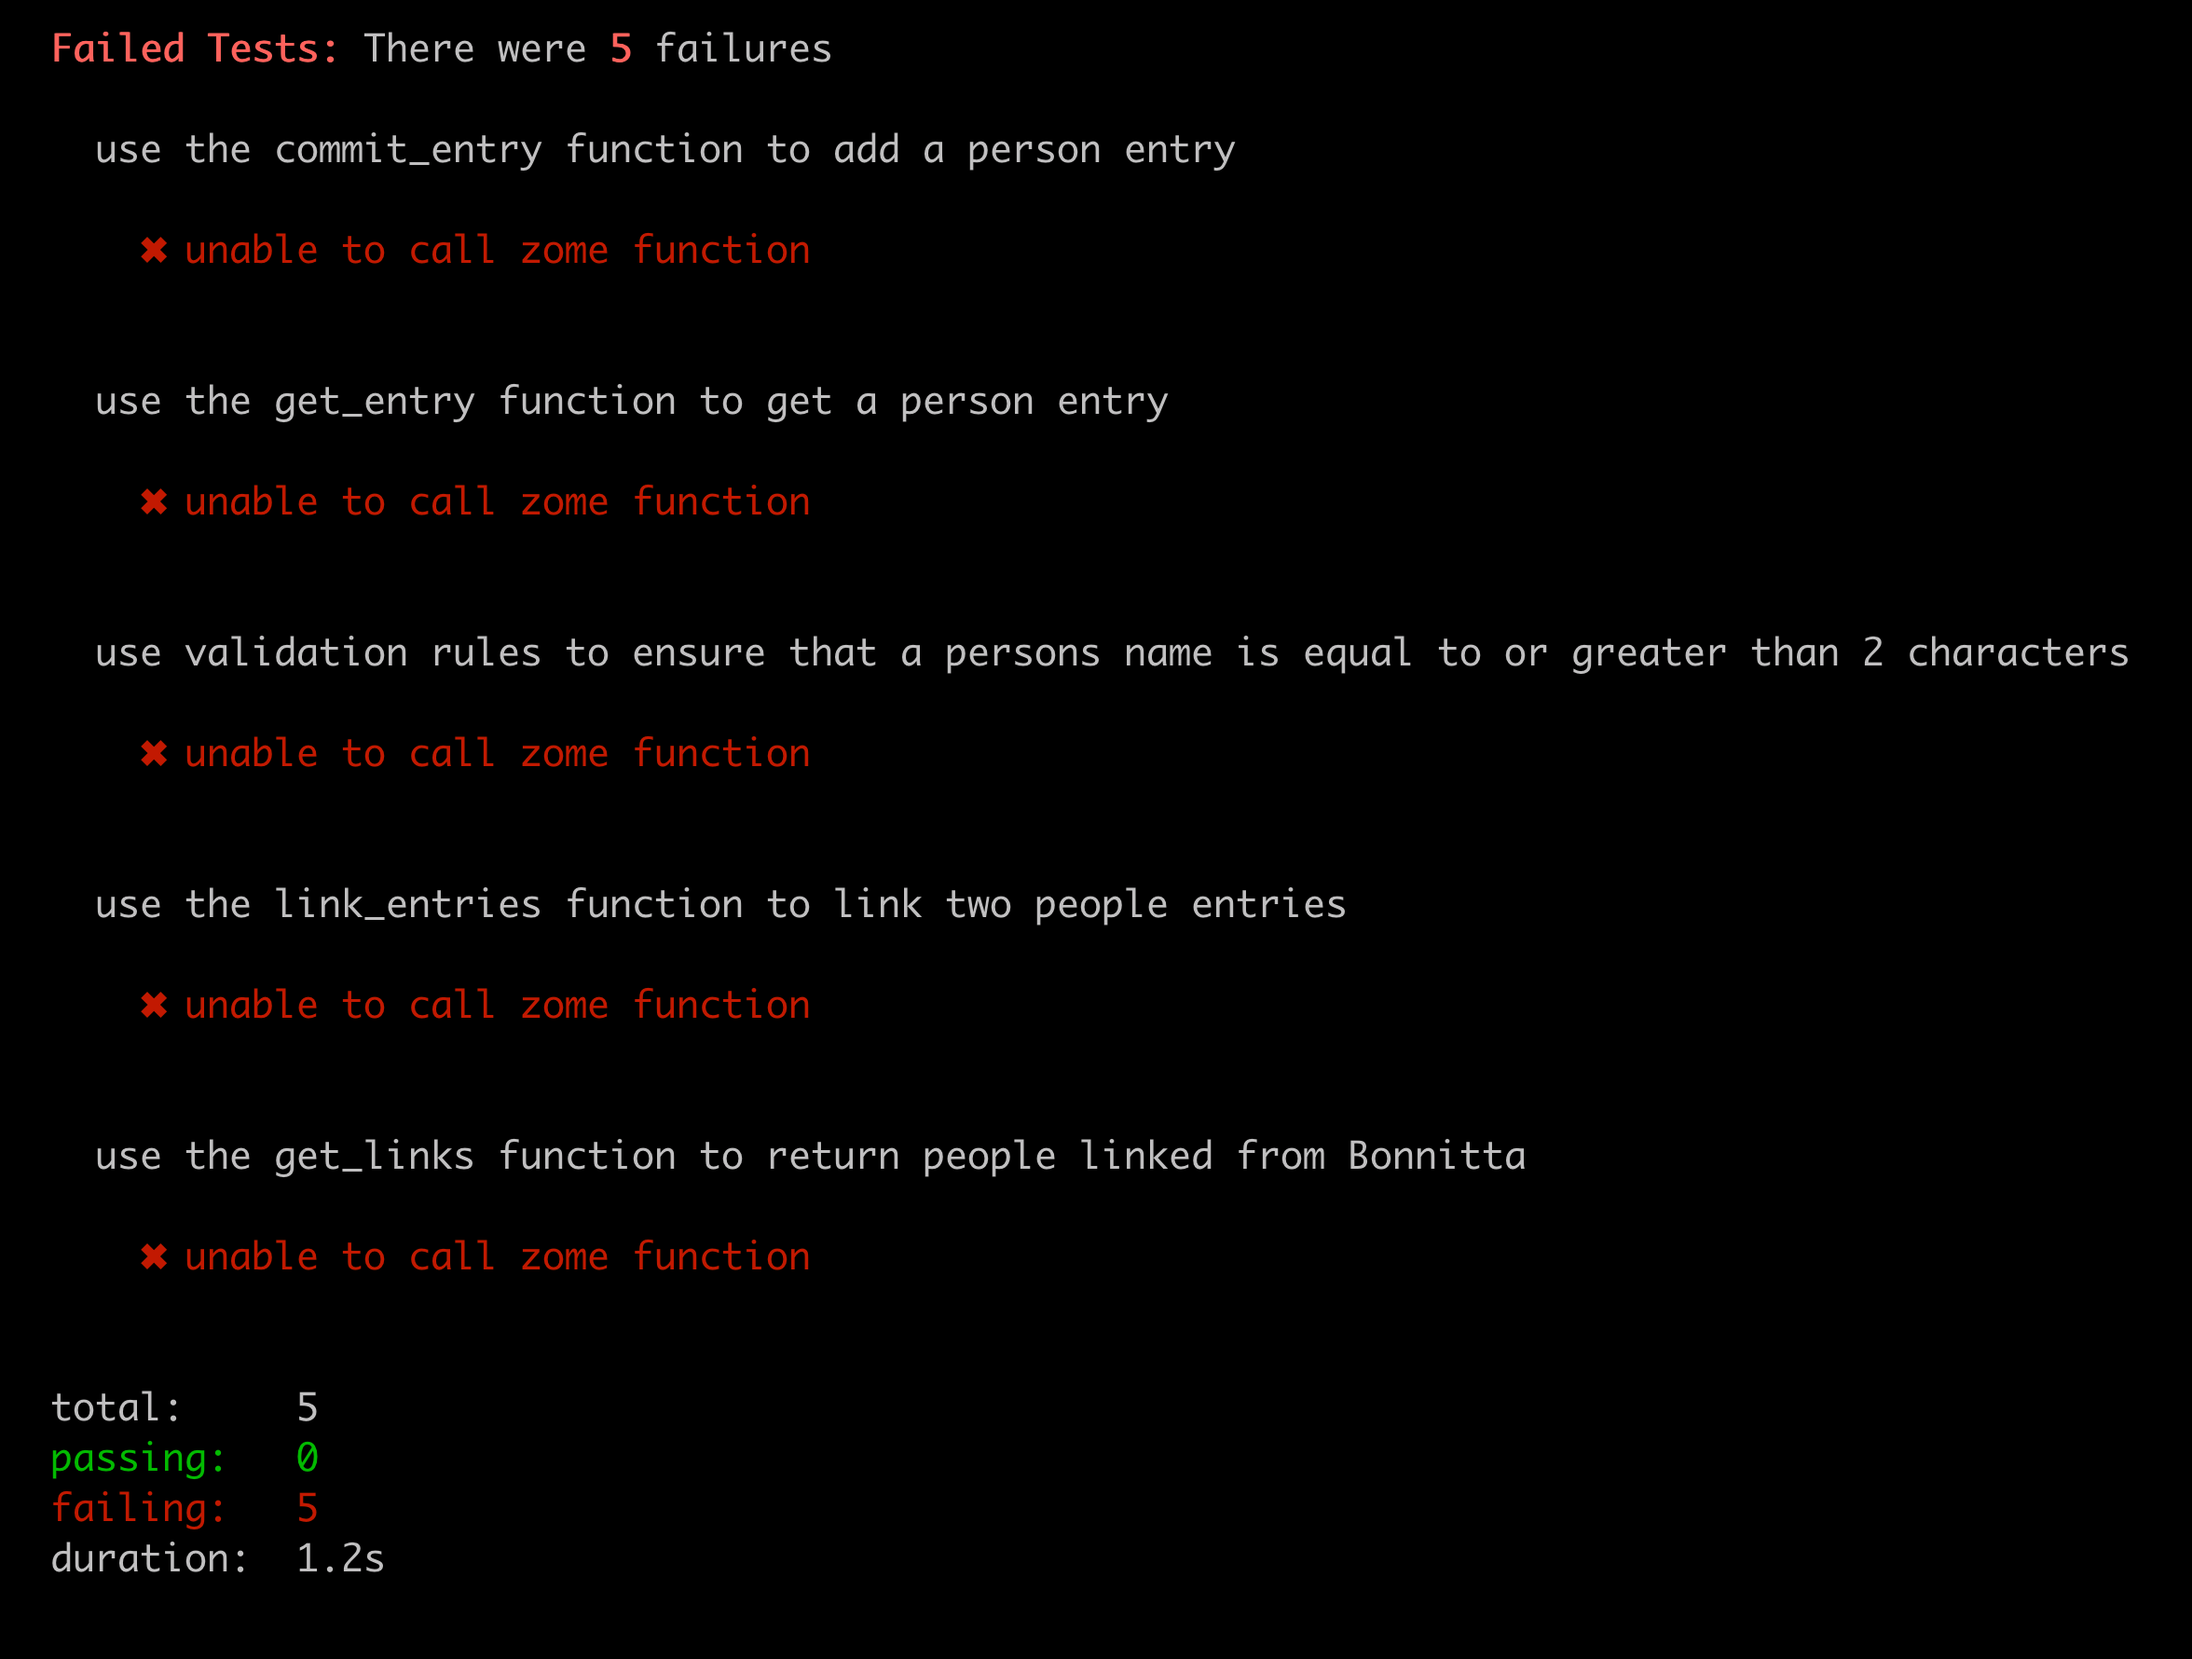
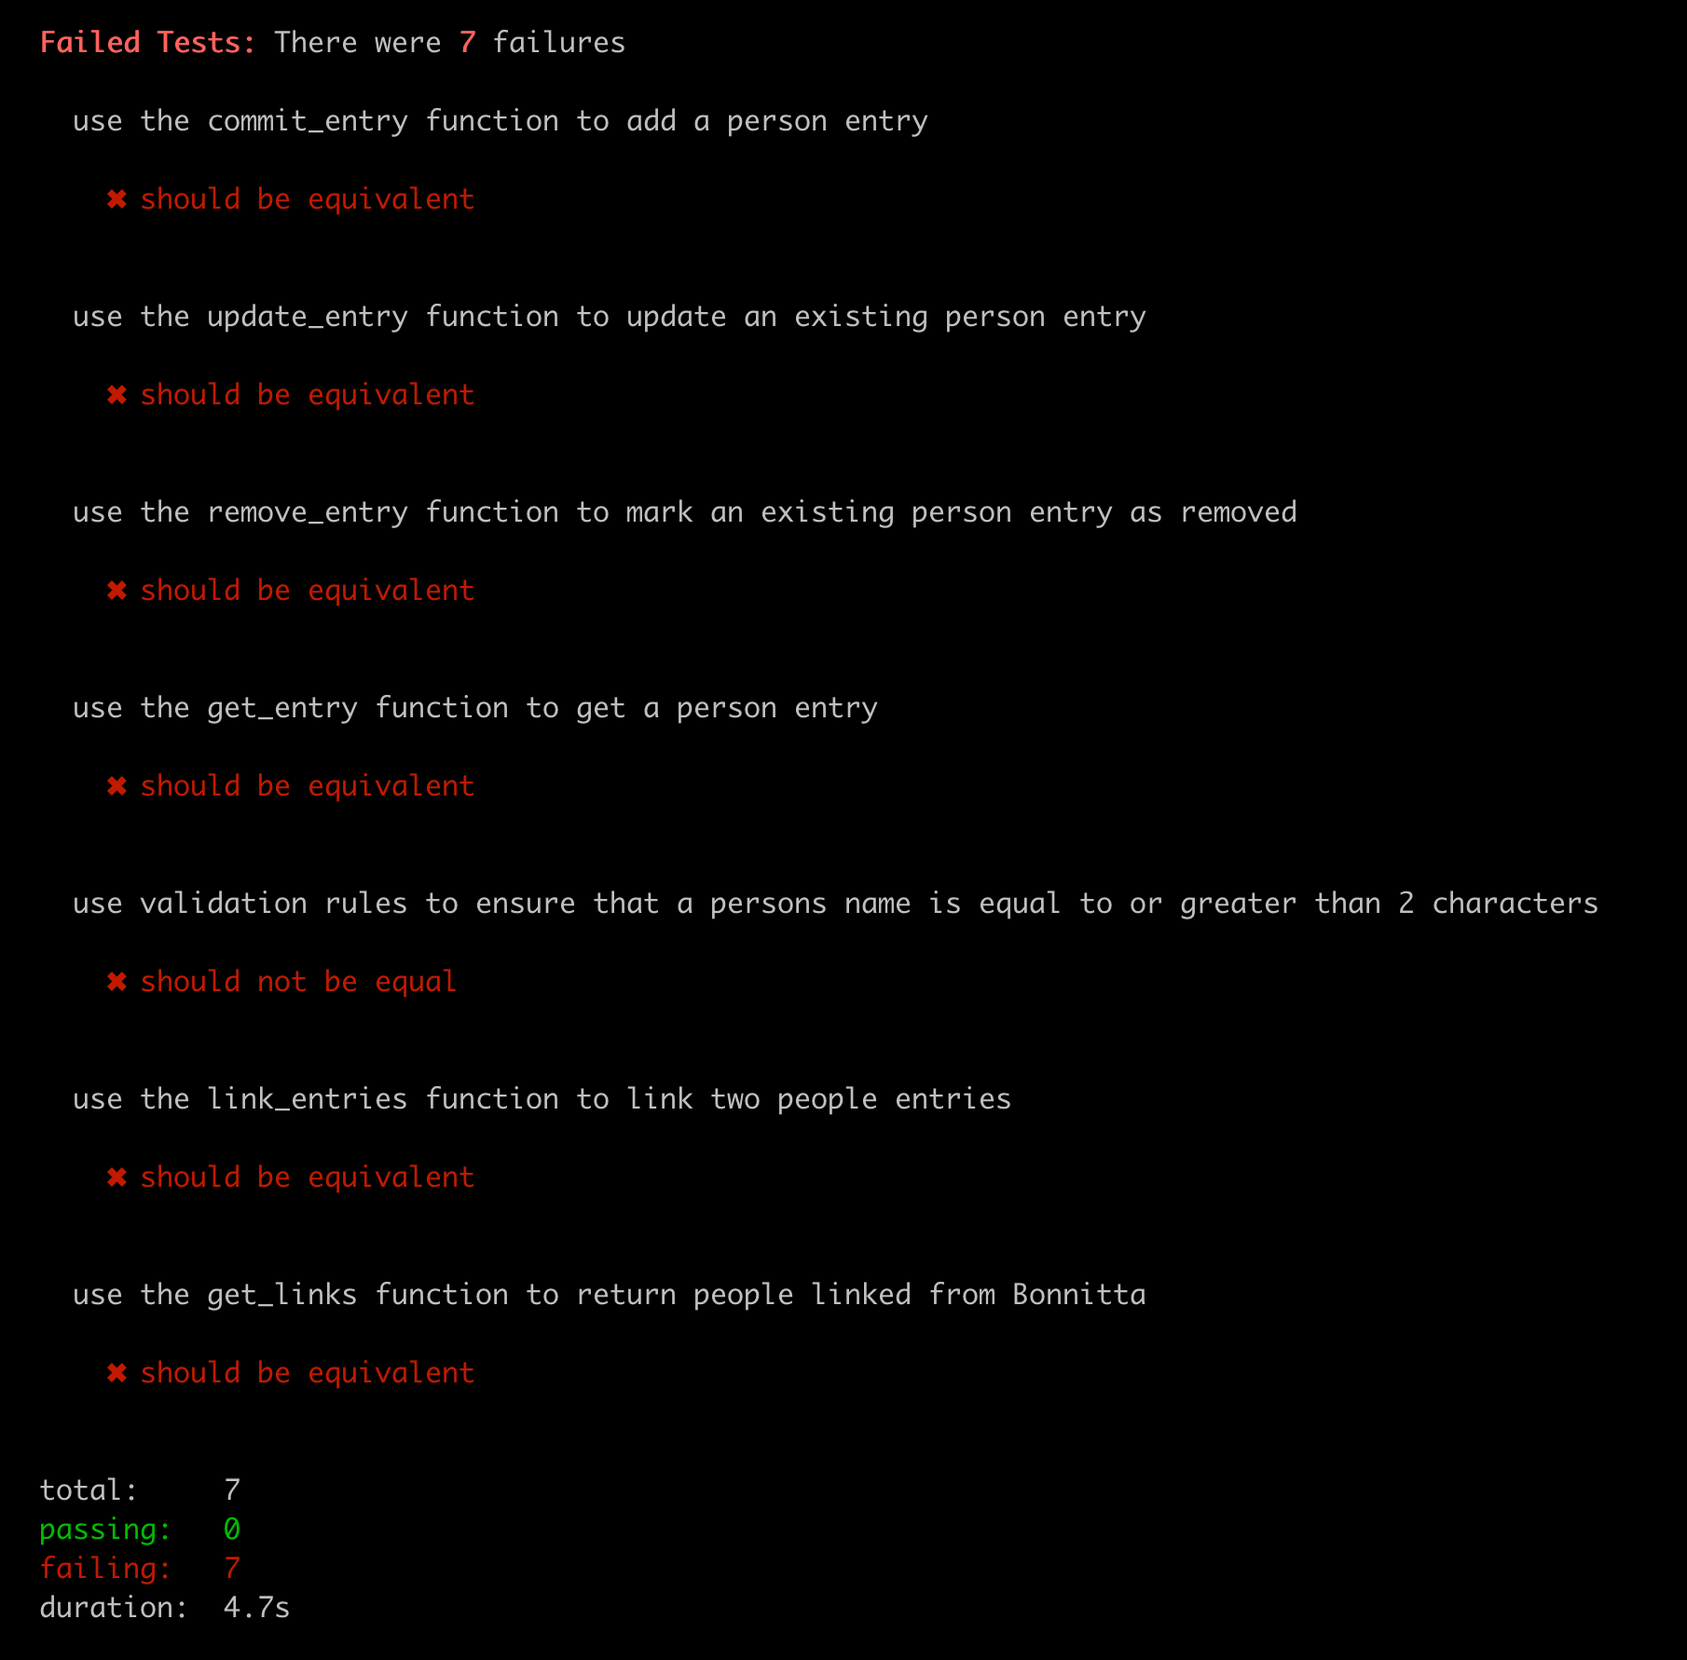
add tests

diff --git a/test/index.js b/test/index.js
@@ -1,14 +1,20 @@
+const { Config, Scenario } = require("@holochain/holochain-nodejs")
 
 // This test file uses the tape testing framework.
 // To learn more, go here: https://github.com/substack/tape
-const { Config, Scenario } = require("@holochain/holochain-nodejs")
 Scenario.setTape(require('tape-catch'))
 
+
 const dnaPath = "./dist/bundle.json"
+
+// this name "alice" is important
+// it is used as a reference key in all the
+// tests that follow, to refer to a running DnaInstance
 const agentAlice = Config.agent("alice")
 const dna = Config.dna(dnaPath)
 const instanceAlice = Config.instance(agentAlice, dna)
-const scenario = new Scenario([instanceAlice])
+
+const scenario = new Scenario([instanceAlice], { debugLog: false })
 
 const bonnittaAddress = "QmbL7tDsQumvsUTDVZo5mtJknhV6bT28yZDuTdyHQdfqTs"
 
@@ -20,16 +26,33 @@ scenario.runTape("use the commit_entry function to add a person entry", (t, { al
   t.deepEqual(result, { Ok: bonnittaAddress })
 })
 
-scenario.runTape("use the get_entry function to get a person entry", (t, { alice }) => {
+scenario.runTape("use the update_entry function to update an existing person entry", (t, { alice }) => {
   let result
   try {
     alice.call("people", "add_person", { name: "Bonnitta" })
-    result = alice.call("people", "get_person", { address: bonnittaAddress })
+    result = alice.call("people", "update_person", {
+      address: bonnittaAddress,
+      newEntry: {
+        name: "Bonnie"
+      }
+    })
   } catch (e) {}
-  t.deepEqual(result, { Ok: { App: [ 'person', '{"name":"Bonnitta"}' ] } })
+  t.deepEqual(result, { Ok: bonnittaAddress })
 })
 
-scenario.runTape("use the get_entry function to get a person entry", (t, { alice }) => {
+scenario.runTape("use the remove_entry function to mark an existing person entry as removed", (t, { alice }) => {
+  // recall that nothing every gets deleted from the local source chain
+  // because it is "append-only". Past entries are simply marked by future entries as having been removed
+  // they are technically still retrievable
+  let result
+  try {
+    alice.call("people", "add_person", { name: "Bonnitta" })
+    result = alice.call("people", "remove_person", { address: bonnittaAddress })
+  } catch (e) {}
+  t.deepEqual(result, { Ok: bonnittaAddress })
+})
+
+scenario.runTape("use the get_entry function to retrieve a person entry", (t, { alice }) => {
   let result
   try {
     alice.call("people", "add_person", { name: "Bonnitta" })

diff --git a/README.md b/README.md
@@ -14,7 +14,7 @@ The test file is located in `test/index.js`.
 
 ## Instructions
 
-Make sure Holochain is [installed](https://developer.holochain.org/start.html)
+Make sure the Holochain command line development tools are [installed](https://developer.holochain.org/start.html#development-section)
 
 Download this repository to your computer.
 
@@ -49,18 +49,28 @@ Scroll up in your terminal so that you can see the first test. It looks like thi
 First, read the description of the test, "use the commit_entry function to add a person entry". Then, compare the "expected: " result, with the "actual: " result. They are different, and we want them to be equal. This will mean implementing the function.
 
 Next, open up a code editor like Atom, Sublime Text, or VSCode, and open this app folder as a project in your editor. From the file tree, open `/test/index.js` in your code editor. Look at the first test:
-![first test](images/first-test.png)
+
+```javascript
+const bonnittaAddress = "QmbL7tDsQumvsUTDVZo5mtJknhV6bT28yZDuTdyHQdfqTs"
+
+scenario.runTape("use the commit_entry function to add a person entry", (t, { alice }) => {
+  let result
+  try {
+    result = alice.call("people", "add_person", { name: "Bonnitta" })
+  } catch (e) {}
+  t.deepEqual(result, { Ok: bonnittaAddress })
+})
+```
 
 What does this all mean?
 - The string "use the commit_entry function to add a person entry" is a description for people to read of what the test is supposed to do
-- `conductor.call` is how we can actually test the exposed functions of our app
+- `alice.call` is how we can actually test the exposed functions of our app
 - `people` is a reference to which Zome this call is to, we have one called "people"
 - `add_person` is the name of the function which this test calls
 - `{ name: "Bonnitta" }` is the value the test will pass to the function
 - `bonnittaAddress` is the value we expect calling the function to result in
 - `result.Ok` indicates that the result of calling our function should be an object which has on it the `Ok` property with the result
 - `t.equal` is using the test framework, "tape" to check equality. Note that `equal` can be used for simple comparisons, while `deepEqual` should be used to check the equality of objects and arrays
-- `t.end()` declares this particular test is complete
 
 Now, open the file `/zomes/people/code/src/lib.rs` in your code editor. This will be where you will be working to solve the tests.
 
@@ -75,3 +85,8 @@ When you've written the code, go back to the terminal and run the `run-test.sh` 
 
 Repeat this for all the remaining tests one by one until they are all passing. If you get really stuck, or you've completed it and want to see the solutions, check them out in the [solution branch of this repository](https://github.com/holochain/dev-camp-tests-rust/tree/solution).
 
+> If you open up `run-test.sh` you will find that it has the following inside
+```shell
+hc test | test/node_modules/.bin/tap-spec
+```
+> This is the regular `hc test` command, with its' output piped through "tap-spec" which nicely formats the output. If you just run `hc test` without that you will find the results less easy to read.
